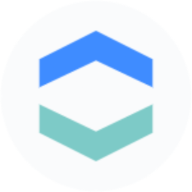
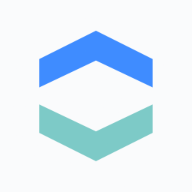
pwa fix

diff --git a/webapp/vite.config.ts b/webapp/vite.config.ts
@@ -61,7 +61,13 @@ export default defineConfig({
             src: 'pwa-512x512.png',
             sizes: '512x512',
             type: 'image/png',
-            purpose: 'any maskable',
+            purpose: 'any',
+          },
+          {
+            src: 'pwa-512x512.png',
+            sizes: '512x512',
+            type: 'image/png',
+            purpose: 'maskable',
           },
         ],
       },
